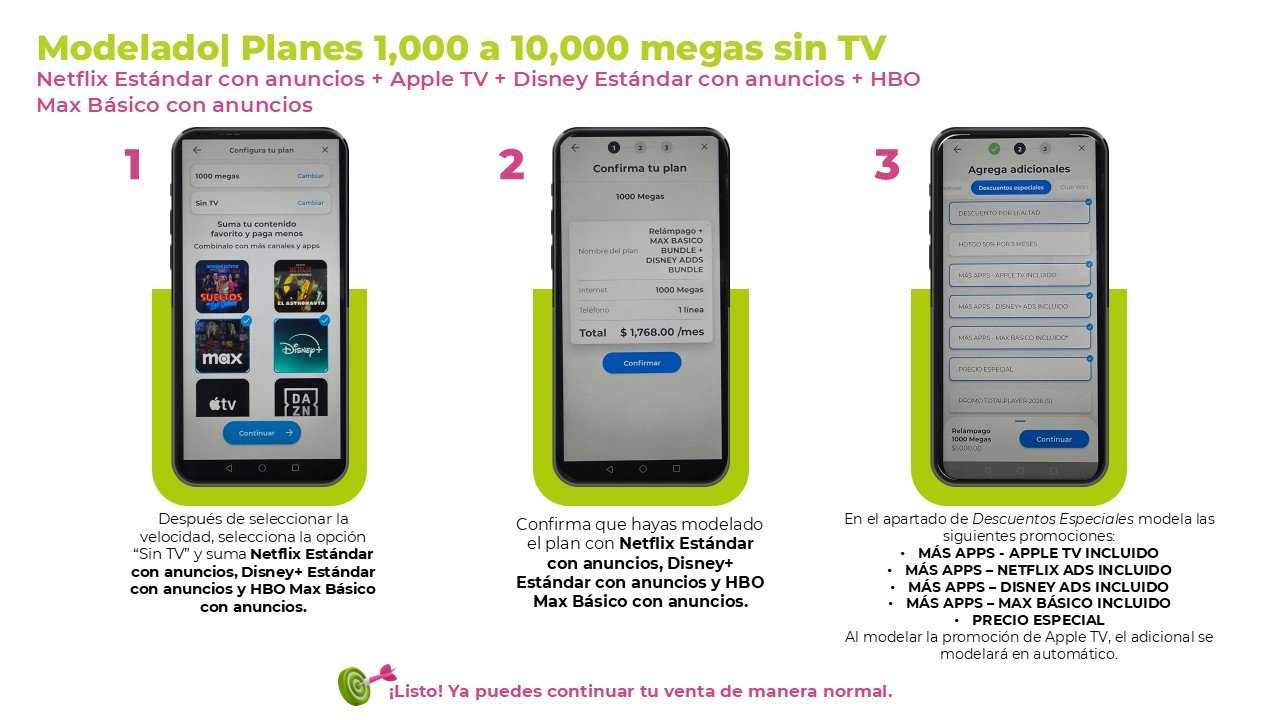
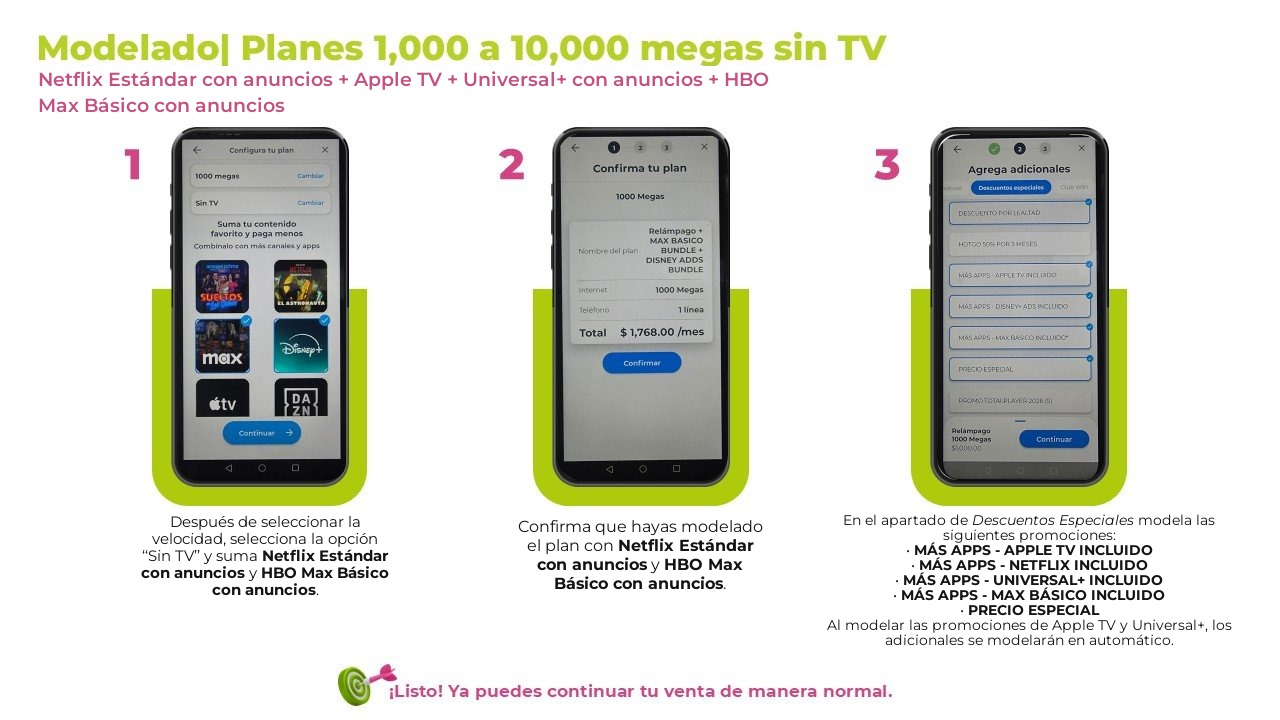
modelador segun hoja 2 del buen mes: codigos mas apps, infografias con universal+, 100 megas y 250 con netflix, cache v55

diff --git a/index.html b/index.html
@@ -6250,7 +6250,9 @@
 
       <div class="md-paso-sel">1 · Velocidad</div>
       <div class="md-ops" id="mdVel">
+        <button type="button" class="md-op" data-vel="100" onclick="mdElegir('vel',this)">100 megas</button>
         <button type="button" class="md-op" data-vel="150" onclick="mdElegir('vel',this)">150 y 250 megas</button>
+        <button type="button" class="md-op" data-vel="250nf" onclick="mdElegir('vel',this)">250 megas con Netflix</button>
         <button type="button" class="md-op" data-vel="350" onclick="mdElegir('vel',this)">350 megas</button>
         <button type="button" class="md-op" data-vel="500" onclick="mdElegir('vel',this)">500 megas</button>
         <button type="button" class="md-op" data-vel="1000" onclick="mdElegir('vel',this)">1,000 a 10,000 megas</button>
@@ -8955,7 +8957,7 @@ const MODELADO = {
     apps:['Netflix Estándar con anuncios','Apple TV','Universal+ con anuncios'],
     paso1:'Después de seleccionar la velocidad y elegir el plan <strong>con TV</strong>, modela <strong>Netflix Estándar con anuncios</strong>.',
     paso2:'Confirma que hayas modelado el plan con <strong>Netflix Estándar con anuncios</strong>.',
-    codigos:[['MÁS APPS - APPLE TV POR 5 MESES'],['MÁS APPS - NETFLIX ADS POR 5 MESES'],['MÁS APPS - UNIVERSAL+ INCLUIDO','con TV queda por 5 meses'],['PRECIO ESPECIAL','solo en 250 megas']],
+    codigos:[['MÁS APPS - APPLE TV INCLUIDO','con TV queda por 5 meses'],['MÁS APPS - NETFLIX INCLUIDO','con TV queda por 5 meses'],['MÁS APPS - UNIVERSAL+ INCLUIDO','con TV queda por 5 meses'],['PRECIO ESPECIAL','solo en 250 megas']],
     auto:'Al modelar las promociones de Apple TV y Universal+, los adicionales se modelan en automático.',
     nota:'Con TV las apps van por <strong>5 meses</strong>. El <strong>Precio Especial</strong> solo aplica en el plan de 250 megas.'
   },
@@ -8964,16 +8966,48 @@ const MODELADO = {
     apps:['Netflix Estándar con anuncios','Apple TV','Universal+ con anuncios'],
     paso1:'Después de seleccionar la velocidad y elegir el plan <strong>sin TV</strong>, modela <strong>Netflix Estándar con anuncios</strong>.',
     paso2:'Confirma que hayas modelado el plan con <strong>Netflix Estándar con anuncios</strong>.',
-    codigos:[['MÁS APPS - APPLE TV POR 3 MESES'],['MÁS APPS - NETFLIX ADS POR 3 MESES'],['MÁS APPS - UNIVERSAL+ INCLUIDO','sin TV queda por 3 meses'],['PRECIO ESPECIAL','solo en 250 megas']],
+    codigos:[['MÁS APPS - APPLE TV INCLUIDO','sin TV queda por 3 meses'],['MÁS APPS - NETFLIX INCLUIDO','sin TV queda por 3 meses'],['MÁS APPS - UNIVERSAL+ INCLUIDO','sin TV queda por 3 meses'],['PRECIO ESPECIAL','solo en 250 megas']],
     auto:'Al modelar las promociones de Apple TV y Universal+, los adicionales se modelan en automático.',
     nota:'Sin TV las apps van por <strong>3 meses</strong>. El <strong>Precio Especial</strong> solo aplica en el plan de 250 megas.'
+  },
+  '100-tv': {
+    titulo:'Plan 100 megas con streaming incluido · con TV',
+    apps:['HBO Max o Universal+ · elige 1'],
+    paso1:'Pregúntale a tu cliente qué app prefiere: <strong>HBO Max</strong> o <strong>Universal+</strong> (solo una). Después selecciona <strong>100 megas</strong> y elige el plan <strong>con TV</strong>.',
+    paso2:'Confirma que hayas seleccionado <strong>100 megas con TV</strong>.',
+    codigos:[['TU PLAN CON UNIVERSAL+','si eligió Universal+'],['TU PLAN CON HBO MAX','si eligió HBO Max']],
+    nota:'Modela <strong>solo una</strong> de las dos promociones, la de la app que eligió tu cliente; no se combinan entre ellas. Es para <strong>clientes nuevos</strong> y la app se queda de manera indefinida con un precio especial de $100 adicionales. Su precio es <strong>$590 al mes</strong>, como en Planes y Megas.'
+  },
+  '100-sintv': {
+    titulo:'Plan 100 megas con streaming incluido · sin TV',
+    apps:['HBO Max o Universal+ · elige 1'],
+    paso1:'Pregúntale a tu cliente qué app prefiere: <strong>HBO Max</strong> o <strong>Universal+</strong> (solo una). Después selecciona <strong>100 megas</strong> y la opción <strong>"Sin TV"</strong>.',
+    paso2:'Confirma que hayas seleccionado <strong>100 megas sin TV</strong>.',
+    codigos:[['TU PLAN CON UNIVERSAL+','si eligió Universal+'],['TU PLAN CON HBO MAX','si eligió HBO Max']],
+    nota:'Modela <strong>solo una</strong> de las dos promociones, la de la app que eligió tu cliente; no se combinan entre ellas. Es para <strong>clientes nuevos</strong> y la app se queda de manera indefinida con un precio especial de $100 adicionales. Su precio es <strong>$499 al mes</strong>, como en Planes y Megas.'
+  },
+  '250nf-tv': {
+    titulo:'Plan 250 megas con Netflix Estándar con anuncios · con TV',
+    apps:['Netflix Estándar con anuncios'],
+    paso1:'Después de seleccionar <strong>250 megas</strong> y elegir el plan <strong>con TV</strong>, suma <strong>Netflix Estándar con anuncios</strong>.',
+    paso2:'Confirma que hayas modelado el plan con <strong>Netflix Estándar con anuncios</strong>.',
+    codigos:[['VELOZ NETFLIX ADS ESPECIAL','Netflix queda de manera indefinida con un precio especial de $80 adicionales'],['PRECIO ESPECIAL']],
+    nota:'Este plan <strong>no lleva promociones de Más Apps</strong>: no modeles Apple TV ni Universal+. Su precio es <strong>$779 al mes</strong>, como en Planes y Megas.'
+  },
+  '250nf-sintv': {
+    titulo:'Plan 250 megas con Netflix Estándar con anuncios · sin TV',
+    apps:['Netflix Estándar con anuncios'],
+    paso1:'Después de seleccionar <strong>250 megas</strong>, selecciona la opción <strong>"Sin TV"</strong> y suma <strong>Netflix Estándar con anuncios</strong>.',
+    paso2:'Confirma que hayas modelado el plan con <strong>Netflix Estándar con anuncios</strong>.',
+    codigos:[['VELOZ NETFLIX ADS ESPECIAL','Netflix queda de manera indefinida con un precio especial de $80 adicionales'],['PRECIO ESPECIAL']],
+    nota:'Este plan <strong>no lleva promociones de Más Apps</strong>: no modeles Apple TV ni Universal+. Su precio es <strong>$640 al mes</strong>, como en Planes y Megas.'
   },
   '350-tv': {
     titulo:'Planes 350 megas con TV', img:'mod-350-vsb.jpg',
     apps:['Netflix Estándar con anuncios','Apple TV','Universal+ con anuncios'],
     paso1:'Después de seleccionar la velocidad y elegir el plan <strong>con TV</strong>, suma <strong>Netflix Estándar con anuncios</strong>.',
     paso2:'Confirma que hayas modelado el plan con <strong>Netflix Estándar con anuncios</strong>.',
-    codigos:[['MÁS APPS - APPLE TV INCLUIDO'],['MÁS APPS - NETFLIX ADS INCLUIDO'],['MÁS APPS - UNIVERSAL+ INCLUIDO','con TV queda por 5 meses'],['PRECIO ESPECIAL']],
+    codigos:[['MÁS APPS - APPLE TV INCLUIDO'],['MÁS APPS - NETFLIX INCLUIDO'],['MÁS APPS - UNIVERSAL+ INCLUIDO','con TV queda por 5 meses'],['PRECIO ESPECIAL']],
     auto:'Al modelar las promociones de Apple TV y Universal+, los adicionales se modelan en automático.',
     nota:'El 350 megas ya <strong>no trae el Nuevo Totalplay TV incluido</strong>. Si tu cliente lo quiere como TV principal, ofrécele <strong>Nuevo Totalplay TV por $50</strong>, <strong>Tu Experiencia al 100</strong> o el <strong>Kit VSB + Totalplay Surround</strong> del Consecutivo de Promociones.'
   },
@@ -8982,7 +9016,7 @@ const MODELADO = {
     apps:['Netflix Estándar con anuncios','Apple TV','Universal+ con anuncios'],
     paso1:'Después de seleccionar la velocidad, selecciona la opción <strong>"Sin TV"</strong> y suma <strong>Netflix Estándar con anuncios</strong>.',
     paso2:'Confirma que hayas modelado el plan con <strong>Netflix Estándar con anuncios</strong>.',
-    codigos:[['MÁS APPS - APPLE TV INCLUIDO'],['MÁS APPS - NETFLIX ADS INCLUIDO'],['MÁS APPS - UNIVERSAL+ INCLUIDO','sin TV queda por 3 meses'],['PRECIO ESPECIAL']],
+    codigos:[['MÁS APPS - APPLE TV INCLUIDO'],['MÁS APPS - NETFLIX INCLUIDO'],['MÁS APPS - UNIVERSAL+ INCLUIDO','sin TV queda por 3 meses'],['PRECIO ESPECIAL']],
     auto:'Al modelar las promociones de Apple TV y Universal+, los adicionales se modelan en automático.'
   },
   '500-tv': {
@@ -8990,7 +9024,7 @@ const MODELADO = {
     apps:['Netflix Estándar con anuncios','Apple TV','Disney+ Estándar con anuncios','Universal+ con anuncios'],
     paso1:'Después de seleccionar la velocidad, selecciona <strong>Nuevo Totalplay TV</strong> y suma <strong>Netflix Estándar con anuncios</strong> y <strong>Disney+ Estándar con anuncios</strong>.',
     paso2:'Confirma que hayas modelado el plan con <strong>Netflix Estándar con anuncios</strong> y <strong>Disney+ Estándar con anuncios</strong>.',
-    codigos:[['MÁS APPS - APPLE TV INCLUIDO'],['MÁS APPS - NETFLIX ADS INCLUIDO'],['MÁS APPS - UNIVERSAL+ INCLUIDO'],['MÁS APPS - DISNEY ADS INCLUIDO'],['NUEVO TOTALPLAY TV INCLUIDO'],['SPEAKERS INCLUIDO']],
+    codigos:[['MÁS APPS - APPLE TV INCLUIDO'],['MÁS APPS - NETFLIX INCLUIDO'],['MÁS APPS - UNIVERSAL+ INCLUIDO'],['MÁS APPS - DISNEY+ INCLUIDO'],['NUEVO TOTALPLAY TV INCLUIDO'],['SPEAKERS INCLUIDO']],
     auto:'Al modelar las promociones de Apple TV y Universal+, los adicionales se modelan en automático.'
   },
   '500-sintv': {
@@ -8998,7 +9032,7 @@ const MODELADO = {
     apps:['Netflix Estándar con anuncios','Apple TV','Universal+ con anuncios'],
     paso1:'Después de seleccionar la velocidad, selecciona la opción <strong>"Sin TV"</strong> y suma <strong>Netflix Estándar con anuncios</strong>.',
     paso2:'Confirma que hayas modelado el plan con <strong>Netflix Estándar con anuncios</strong>.',
-    codigos:[['MÁS APPS - APPLE TV INCLUIDO'],['MÁS APPS - NETFLIX ADS INCLUIDO'],['MÁS APPS - UNIVERSAL+ INCLUIDO']],
+    codigos:[['MÁS APPS - APPLE TV INCLUIDO'],['MÁS APPS - NETFLIX INCLUIDO'],['MÁS APPS - UNIVERSAL+ INCLUIDO']],
     auto:'Al modelar las promociones de Apple TV y Universal+, los adicionales se modelan en automático.'
   },
   '1000-tv': {
@@ -9006,7 +9040,7 @@ const MODELADO = {
     apps:['Netflix Estándar con anuncios','Apple TV','Disney+ Estándar con anuncios','Universal+ con anuncios','HBO Max Básico con anuncios'],
     paso1:'Después de seleccionar la velocidad, selecciona <strong>Nuevo Totalplay TV</strong> y suma <strong>Netflix Estándar con anuncios</strong>, <strong>Disney+ Estándar con anuncios</strong> y <strong>HBO Max Básico con anuncios</strong>.',
     paso2:'Confirma que hayas modelado el plan con <strong>Netflix Estándar con anuncios</strong>, <strong>Disney+ Estándar con anuncios</strong> y <strong>HBO Max Básico con anuncios</strong>.',
-    codigos:[['MÁS APPS - APPLE TV INCLUIDO'],['MÁS APPS - NETFLIX ADS INCLUIDO'],['MÁS APPS - UNIVERSAL+ INCLUIDO'],['MÁS APPS - DISNEY ADS INCLUIDO'],['MÁS APPS - MAX BÁSICO INCLUIDO'],['NUEVO TOTALPLAY TV INCLUIDO'],['SPEAKERS INCLUIDO'],['PRECIO ESPECIAL']],
+    codigos:[['MÁS APPS - APPLE TV INCLUIDO'],['MÁS APPS - NETFLIX INCLUIDO'],['MÁS APPS - UNIVERSAL+ INCLUIDO'],['MÁS APPS - DISNEY+ INCLUIDO'],['MÁS APPS - MAX BÁSICO INCLUIDO'],['NUEVO TOTALPLAY TV INCLUIDO'],['SPEAKERS INCLUIDO'],['PRECIO ESPECIAL']],
     auto:'Al modelar las promociones de Apple TV y Universal+, los adicionales se modelan en automático.'
   },
   '1000-sintv': {
@@ -9014,7 +9048,7 @@ const MODELADO = {
     apps:['Netflix Estándar con anuncios','Apple TV','Universal+ con anuncios','HBO Max Básico con anuncios'],
     paso1:'Después de seleccionar la velocidad, selecciona la opción <strong>"Sin TV"</strong> y suma <strong>Netflix Estándar con anuncios</strong> y <strong>HBO Max Básico con anuncios</strong>.',
     paso2:'Confirma que hayas modelado el plan con <strong>Netflix Estándar con anuncios</strong> y <strong>HBO Max Básico con anuncios</strong>.',
-    codigos:[['MÁS APPS - APPLE TV INCLUIDO'],['MÁS APPS - NETFLIX ADS INCLUIDO'],['MÁS APPS - UNIVERSAL+ INCLUIDO'],['MÁS APPS - MAX BÁSICO INCLUIDO'],['PRECIO ESPECIAL']],
+    codigos:[['MÁS APPS - APPLE TV INCLUIDO'],['MÁS APPS - NETFLIX INCLUIDO'],['MÁS APPS - UNIVERSAL+ INCLUIDO'],['MÁS APPS - MAX BÁSICO INCLUIDO'],['PRECIO ESPECIAL']],
     auto:'Al modelar las promociones de Apple TV y Universal+, los adicionales se modelan en automático.'
   }
 };
@@ -9043,11 +9077,11 @@ function mdPintar(){
         '<p class="md-pista">👆 Toca cada promoción conforme la vayas modelando para palomearla.</p>' +
       '</div></div>' +
     '</div>' +
-    '<div class="md-auto">⚡ ' + d.auto + '</div>' +
+    (d.auto ? '<div class="md-auto">⚡ ' + d.auto + '</div>' : '') +
     (d.nota ? '<div class="md-auto">📌 ' + d.nota + '</div>' : '') +
     '<div class="md-total">💡 <strong>No te asustes con el total de "Confirma tu plan":</strong> ahí todavía no vienen los descuentos. Al modelar las promociones de Descuentos Especiales, el precio baja al del plan.</div>' +
-    '<figure class="md-foto"><img class="zoomable" src="' + d.img + '" data-titulo="Modelado · ' + d.titulo + '" alt="Pantallas del modelado: ' + d.titulo + '" loading="lazy">' +
-      '<figcaption><span class="zoom-pista">🔍 Toca para ver las pantallas en grande</span></figcaption></figure>' +
+    (d.img ? '<figure class="md-foto"><img class="zoomable" src="' + d.img + '" data-titulo="Modelado · ' + d.titulo + '" alt="Pantallas del modelado: ' + d.titulo + '" loading="lazy">' +
+      '<figcaption><span class="zoom-pista">🔍 Toca para ver las pantallas en grande</span></figcaption></figure>' : '') +
     '<div class="md-listo">🎯 ¡Listo! Ya puedes continuar tu venta de manera normal.</div>';
   caja.innerHTML = h;
   caja.style.display = '';

diff --git a/sw.js b/sw.js
@@ -6,7 +6,7 @@
    número de CACHE (v2 → v3 → v4…). Ese cambio es lo que hace que los
    celulares que ya lo tienen instalado reciban la versión nueva. */
 
-const CACHE = 'tp-fuerzaventas-v54';
+const CACHE = 'tp-fuerzaventas-v55';
 
 const ARCHIVOS = [
   './',
